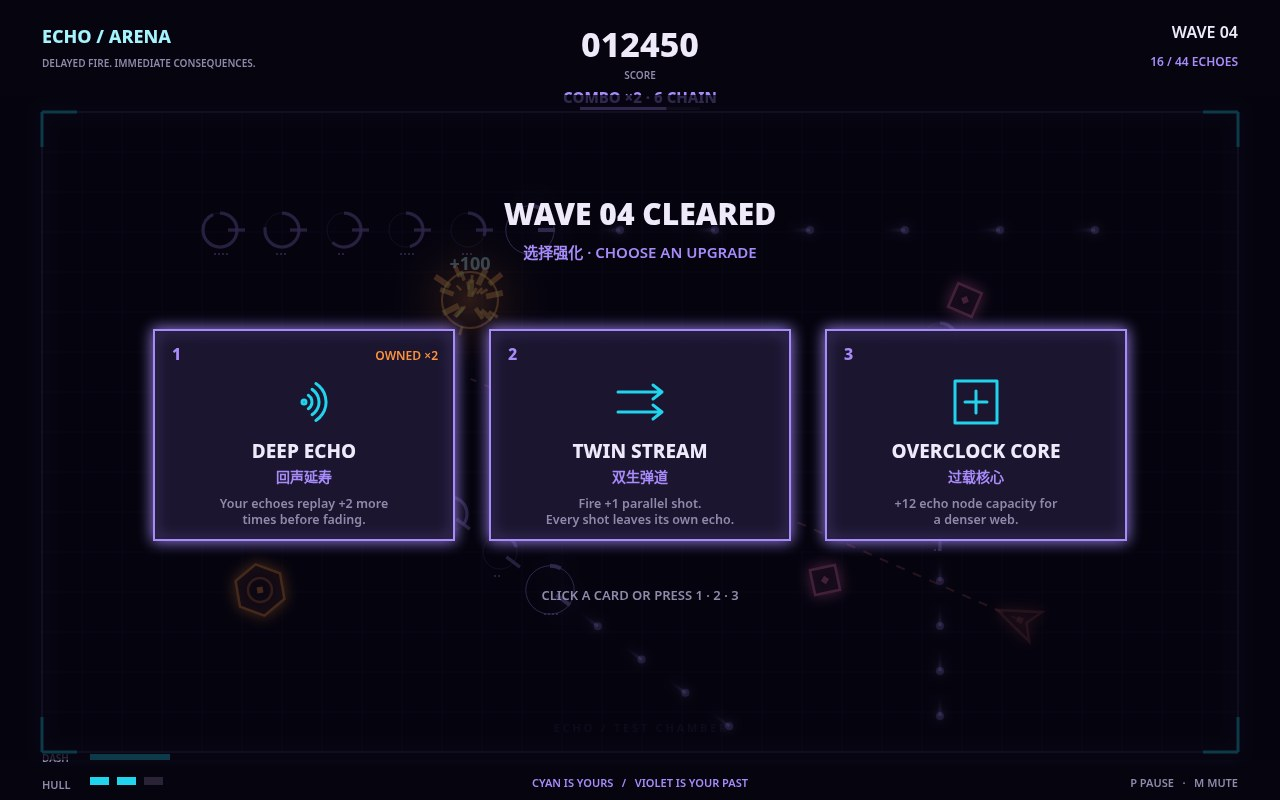
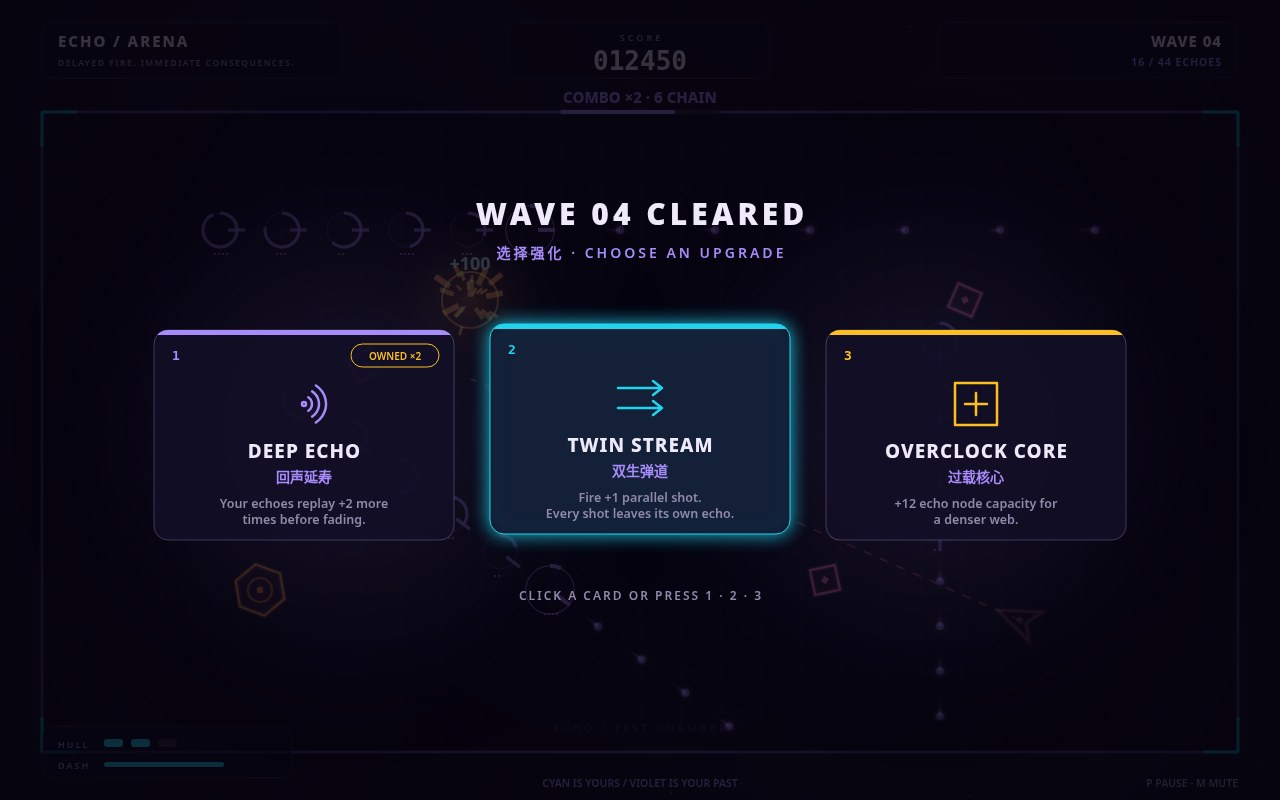
ECHO ARENA visual upgrade: layered deep-space backdrop with nebula and starfield, glassmorphism HUD panels, magazine-grid title with echo ripples, glass upgrade cards with stagger and hover, WARDEN letterbox intro, segmented boss bar, stats-grid game over, glow-sprite rendering (no gameplay changes)

diff --git a/game/src/render.js b/game/src/render.js
@@ -1,13 +1,35 @@
 import { WIDTH, HEIGHT, ARENA, PALETTE as C, COMBO, BULLET, DASH, PLAYER_DASH } from './config.js';
 import { cardRect, CARD } from './upgrades.js';
 export class Renderer {
- constructor(canvas) {this.ctx=canvas.getContext('2d');this.canvas=canvas;}
- text(value,x,y,size=18,color=C.text,align='left',weight=600) {const c=this.ctx;c.font=`${weight} ${size}px system-ui, sans-serif`;c.textAlign=align;c.fillStyle=color;c.fillText(value,x,y);}
+ constructor(canvas) {
+  this.ctx=canvas.getContext('2d');this.canvas=canvas;this.rt=0;this.stateT=0;this.bossT=2;this.glows=new Map();
+  const surface=()=>{const a=document.createElement('canvas');a.width=WIDTH;a.height=HEIGHT;return a;};
+  this.nebula=surface();const n=this.nebula.getContext('2d');n.fillStyle='#06040f';n.fillRect(0,0,WIDTH,HEIGHT);
+  for(const [x,y,r,rgb,a] of [[300,180,520,'167,139,250',.10],[1020,620,560,'34,211,238',.07],[980,140,380,'244,113,181',.05],[180,660,420,'167,139,250',.06]]){const g=n.createRadialGradient(x,y,0,x,y,r);g.addColorStop(0,`rgba(${rgb},${a})`);g.addColorStop(1,`rgba(${rgb},0)`);n.fillStyle=g;n.fillRect(0,0,WIDTH,HEIGHT);}
+  this.vignette=surface();const v=this.vignette.getContext('2d'),g=v.createRadialGradient(640,400,340,640,400,920);g.addColorStop(0,'rgba(3,2,10,0)');g.addColorStop(1,'rgba(3,2,10,.62)');v.fillStyle=g;v.fillRect(0,0,WIDTH,HEIGHT);
+  let seed=7319;const random=()=>((seed=(Math.imul(seed,1664525)+1013904223)>>>0)/4294967296);
+  this.stars=[100,50].map((count,layer)=>Array.from({length:count},()=>({x:random()*WIDTH,y:random()*HEIGHT,r:layer?1.7:1,phase:random()*Math.PI*2})));
+  for(const color of [C.cyan,C.echo,C.red,C.text,C.white,C.gold])this.glow(color);
+ }
+ glow(color){if(!this.glows.has(color)){const a=document.createElement('canvas');a.width=a.height=128;const c=a.getContext('2d'),g=c.createRadialGradient(64,64,0,64,64,64);g.addColorStop(0,color);g.addColorStop(.18,color);g.addColorStop(1,'transparent');c.fillStyle=g;c.fillRect(0,0,128,128);this.glows.set(color,a);}return this.glows.get(color);}
+ glowAt(x,y,size,color,alpha=1){const c=this.ctx;c.save();c.globalAlpha*=alpha;c.drawImage(this.glow(color),x-size/2,y-size/2,size,size);c.restore();}
+ round(x,y,w,h,r=10){const c=this.ctx;r=Math.min(r,w/2,h/2);c.beginPath();c.moveTo(x+r,y);c.arcTo(x+w,y,x+w,y+h,r);c.arcTo(x+w,y+h,x,y+h,r);c.arcTo(x,y+h,x,y,r);c.arcTo(x,y,x+w,y,r);c.closePath();}
+ panel(x,y,w,h){const c=this.ctx;this.round(x,y,w,h);c.fillStyle='rgba(10,8,24,.55)';c.fill();c.lineWidth=1;c.strokeStyle='rgba(190,180,255,.16)';c.stroke();this.line(x+10,y+1,x+w-10,y+1,'rgba(255,255,255,.07)');}
+ label(value,x,y,size=10,color=C.muted,align='left',spacing=2,weight=600){this.text(value,x,y,size,color,align,weight,spacing);}
+ num(value,x,y,size=26,color=C.text,align='center'){this.text(value,x,y,size,color,align,800,0,true);}
+ bar(x,y,w,h,f,color){const c=this.ctx;this.round(x,y,w,h,h/2);c.fillStyle='#292335';c.fill();if(f>0){this.round(x,y,w*Math.min(1,Math.max(0,f)),h,h/2);c.fillStyle=color;c.fill();}}
+ inside(m,r){return m.x>=r.x&&m.x<=r.x+r.w&&m.y>=r.y&&m.y<=r.y+r.h;}
+
+ text(value,x,y,size=18,color=C.text,align='left',weight=600,spacing=0,mono=false) {const c=this.ctx;c.font=`${weight} ${size}px ${mono?'ui-monospace,"SF Mono","Cascadia Mono",Menlo,Consolas,monospace':'"Avenir Next","Segoe UI",system-ui,sans-serif'}`;c.textAlign=align;c.fillStyle=color;if('letterSpacing' in c)c.letterSpacing=`${spacing}px`;c.fillText(value,x+(align==='center'?spacing/2:0),y);if('letterSpacing' in c)c.letterSpacing='0px';}
  line(x,y,x2,y2,color,width=1) {const c=this.ctx;c.strokeStyle=color;c.lineWidth=width;c.beginPath();c.moveTo(x,y);c.lineTo(x2,y2);c.stroke();}
  draw(game) {
-  const c=this.ctx,scale=this.canvas.width/WIDTH;c.setTransform(scale,0,0,scale,0,0);c.clearRect(0,0,WIDTH,HEIGHT);c.fillStyle=C.floor;c.fillRect(0,0,WIDTH,HEIGHT);
+  const now=performance.now();const dt=this.lastNow===undefined?0:Math.min(.05,Math.max(0,(now-this.lastNow)/1000));this.lastNow=now;this.rt+=dt;this.stateT+=dt;this.bossT+=dt;
+  if(this.lastState===undefined){this.lastState=game.state;this.stateT=2;this.changed=false;}else if(this.lastState!==game.state){this.lastState=game.state;this.stateT=0;this.changed=true;}
+  const boss=game.enemies.find(e=>e.kind==='warden'&&!e.dead);if(boss&&game.state==='playing'&&boss!==this.bossRef){this.bossRef=boss;this.bossT=0;}
+  const c=this.ctx,scale=this.canvas.width/WIDTH;c.setTransform(scale,0,0,scale,0,0);c.clearRect(0,0,WIDTH,HEIGHT);c.drawImage(this.nebula,0,0);
+  c.save();this.stars.forEach((layer,i)=>{for(const star of layer){c.globalAlpha=(i?.35:.18)*( .7+.3*Math.sin(this.rt*.7+star.phase));c.fillStyle=i?C.text:C.echo;c.fillRect((star.x+this.rt*(i?5:2))%WIDTH,star.y,star.r,star.r);}});c.restore();
   c.save();c.translate(Math.sin(game.time*99)*game.shake,Math.cos(game.time*113)*game.shake);
-  this.floor(game.time);
+  this.floor(this.rt);
   c.save();c.beginPath();c.rect(ARENA.left,ARENA.top,ARENA.right-ARENA.left,ARENA.bottom-ARENA.top);c.clip();
   game.echoes.draw(c,game.time);
   for(const spawn of game.director.pending)if(spawn.timer<0.85){const pulse=1-spawn.timer/0.85;c.strokeStyle=C.red;c.globalAlpha=0.5+Math.sin(game.time*25)*0.25;c.lineWidth=2;c.beginPath();c.arc(spawn.x,spawn.y,12+24*pulse,0,Math.PI*2);c.stroke();this.line(spawn.x-9,spawn.y,spawn.x+9,spawn.y,C.red);this.line(spawn.x,spawn.y-9,spawn.x,spawn.y+9,C.red);c.globalAlpha=1;}
@@ -16,28 +38,30 @@ export class Renderer {
   for(const g of game.afterimages){c.save();c.translate(g.x,g.y);c.rotate(g.angle);c.globalAlpha=0.35*(g.life/PLAYER_DASH.ghostLife);c.strokeStyle=C.cyan;c.lineWidth=2;c.beginPath();c.moveTo(21,0);c.lineTo(-14,-13);c.lineTo(-8,0);c.lineTo(-14,13);c.closePath();c.stroke();c.restore();}
   if(game.state!=='title'&&game.player.hp>0)this.player(game);
   game.particles.draw(c);c.restore();c.restore();
+  c.drawImage(this.vignette,0,0);
   this.hud(game);
-  const boss=game.enemies.find(e=>e.kind==='warden'&&!e.dead);
-  if(boss&&(game.state==='playing'||game.state==='upgrade')){this.text('WARDEN',WIDTH/2-220,ARENA.top-2,10,C.echo,'left',700);c.fillStyle='#292335';c.fillRect(WIDTH/2-220,ARENA.top+8,440,9);c.fillStyle='#d8b4fe';c.fillRect(WIDTH/2-220,ARENA.top+8,440*Math.max(0,boss.hp/boss.maxHp),9);c.strokeStyle='#65518f';c.lineWidth=1;c.strokeRect(WIDTH/2-220,ARENA.top+8,440,9);}
-  if(game.banner>0&&game.state==='playing'){c.save();c.globalAlpha=Math.min(1,game.banner);this.text(`WAVE ${String(game.director.wave).padStart(2,'0')}`,WIDTH/2,195,42,C.text,'center',850);this.text('THE PAST IS CATCHING UP',WIDTH/2,222,12,C.echo,'center');c.restore();}
+  if(boss&&(game.state==='playing'||game.state==='upgrade')){this.label('WARDEN // 守望者',430,140,10,C.magenta,'left',2);const g=c.createLinearGradient(430,0,850,0);g.addColorStop(0,C.magenta);g.addColorStop(1,C.red);this.bar(430,146,420,10,boss.hp/boss.maxHp,g);c.strokeStyle='rgba(190,180,255,.16)';c.strokeRect(430,146,420,10);for(let i=1;i<14;i++)this.line(430+i*30,146,430+i*30,156,'rgba(8,6,20,.85)',2);}
+  if(game.banner>0&&game.state==='playing'){c.save();const a=Math.min(1,game.banner);c.globalAlpha=a;this.label(`WAVE ${String(game.director.wave).padStart(2,'0')}`,640,195,40,C.text,'center',6,850);this.line(360-60*a,181,440,181,C.echo);this.line(840,181,920+60*a,181,C.echo);this.label('THE PAST IS CATCHING UP',640,222,11,C.echo,'center',3);c.restore();}
+  if(game.state==='playing'&&this.bossT<1.2)this.bossIntro();
   if(game.redFlash>0){const g=c.createRadialGradient(WIDTH/2,HEIGHT/2,220,WIDTH/2,HEIGHT/2,700);g.addColorStop(0,'transparent');g.addColorStop(1,`rgba(248,70,80,${game.redFlash})`);c.fillStyle=g;c.fillRect(0,0,WIDTH,HEIGHT);}
   if(game.state==='upgrade')this.upgrade(game);
   if(game.state==='title')this.title(game);
   if(game.state==='paused')this.paused();
   if(game.state==='gameover')this.gameover(game);
+  if(this.changed&&this.stateT<.28){c.fillStyle=`rgba(0,0,0,${.85*(1-this.stateT/.28)})`;c.fillRect(0,0,WIDTH,HEIGHT);}
  }
  floor(time) {
   const c=this.ctx,a=ARENA;c.save();
-  c.fillStyle=C.floor;c.fillRect(a.left,a.top,a.right-a.left,a.bottom-a.top);
-  c.strokeStyle=C.grid;c.lineWidth=1;c.beginPath();for(let x=a.left;x<a.right;x+=40){c.moveTo(x,a.top);c.lineTo(x,a.bottom);}for(let y=a.top;y<a.bottom;y+=40){c.moveTo(a.left,y);c.lineTo(a.right,y);}c.stroke();
-  c.shadowBlur=16;c.shadowColor=C.echo;c.strokeStyle='#65518f';c.strokeRect(a.left,a.top,a.right-a.left,a.bottom-a.top);c.shadowBlur=0;
+  c.fillStyle='rgba(8,6,20,.88)';c.fillRect(a.left,a.top,a.right-a.left,a.bottom-a.top);
+  c.strokeStyle='rgba(143,137,170,.075)';c.lineWidth=1;c.beginPath();for(let x=a.left;x<a.right;x+=40){c.moveTo(x,a.top);c.lineTo(x,a.bottom);}for(let y=a.top;y<a.bottom;y+=40){c.moveTo(a.left,y);c.lineTo(a.right,y);}c.stroke();
+  c.strokeStyle=C.echo;c.lineWidth=5;c.globalAlpha=.16;c.strokeRect(a.left,a.top,a.right-a.left,a.bottom-a.top);c.lineWidth=1.5;c.globalAlpha=.5+.25*Math.sin(time*1.4);c.strokeRect(a.left,a.top,a.right-a.left,a.bottom-a.top);c.globalAlpha=1;
   const corners=[[a.left,a.top,1,1],[a.right,a.top,-1,1],[a.left,a.bottom,1,-1],[a.right,a.bottom,-1,-1]];
   for(const [x,y,sx,sy]of corners){this.line(x,y,x+sx*35,y,C.cyan,3);this.line(x,y,x,y+sy*35,C.cyan,3);}
   c.globalAlpha=0.2;this.text('E C H O   /   T E S T   C H A M B E R',WIDTH/2,a.bottom-20,11,C.echo,'center');c.restore();
  }
  bullets(bullets) {
   const c=this.ctx;c.save();c.globalCompositeOperation='lighter';
-  for(const b of bullets){const live=b.kind==='live',burst=b.kind==='burst',hostile=b.kind==='hostile',dx=Math.cos(b.angle),dy=Math.sin(b.angle);c.globalAlpha=live||hostile?1:burst?0.95:0.48;c.shadowBlur=live?13:8;c.shadowColor=hostile?C.red:live?C.cyan:C.echo;
+  for(const b of bullets){const live=b.kind==='live',burst=b.kind==='burst',hostile=b.kind==='hostile',dx=Math.cos(b.angle),dy=Math.sin(b.angle);c.globalAlpha=live||hostile?1:burst?0.95:0.48;this.glowAt(b.x,b.y,live?26:22,hostile?C.red:burst?C.text:live?C.cyan:C.echo,.65);
    const gradient=c.createLinearGradient(b.x,b.y,b.x-dx*BULLET.trail,b.y-dy*BULLET.trail);gradient.addColorStop(0,hostile?C.red:live?C.cyan:C.echo);gradient.addColorStop(1,'transparent');this.line(b.x,b.y,b.x-dx*BULLET.trail,b.y-dy*BULLET.trail,gradient,live?4:3);
    c.fillStyle=hostile?'#fecaca':burst?'#ffffff':live?C.white:C.echo;c.beginPath();c.arc(b.x,b.y,live?3.5:4,0,Math.PI*2);c.fill();
   }c.restore();
@@ -45,69 +69,69 @@ export class Renderer {
  enemy(e,time) {
   const c=this.ctx;c.save();c.translate(e.x,e.y);
   if(e.kind==='warden'){
-   c.rotate(time*0.3);c.strokeStyle=e.flash>0?C.white:e.color;c.lineWidth=3.5;c.fillStyle='#1d1030';c.shadowBlur=18;c.shadowColor=e.color;
-   for(const r of [e.radius,e.radius*0.62]){c.beginPath();for(let i=0;i<6;i++){const a=i*Math.PI/3;if(i===0)c.moveTo(Math.cos(a)*r,Math.sin(a)*r);else c.lineTo(Math.cos(a)*r,Math.sin(a)*r);}c.closePath();c.fill();c.stroke();c.rotate(-time*0.5);}
+   this.glowAt(0,0,230,C.echo,.30);c.rotate(time*0.3);c.strokeStyle=e.flash>0?C.white:e.color;c.lineWidth=3.5;c.fillStyle='#1d1030';
+   for(const r of [e.radius,e.radius*0.62]){c.beginPath();for(let i=0;i<6;i++){const a=i*Math.PI/3;if(i===0)c.moveTo(Math.cos(a)*r,Math.sin(a)*r);else c.lineTo(Math.cos(a)*r,Math.sin(a)*r);}c.closePath();c.fill();c.save();c.globalAlpha*=.16;c.lineWidth=6;c.stroke();c.restore();c.stroke();c.rotate(-time*0.5);}
    c.fillStyle=e.color;c.beginPath();c.arc(0,0,9,0,Math.PI*2);c.fill();c.restore();return;
   }
   if(e.kind==='dasher'&&e.phase==='charge'){c.save();c.rotate(e.angle);c.globalAlpha=0.2+0.45*(1-e.timer/DASH.charge);c.setLineDash([9,9]);this.line(0,0,600,0,C.red,2);c.restore();}
   if(e.kind==='dasher'&&e.phase==='dash'){c.save();c.rotate(e.angle);const trail=c.createLinearGradient(-12,0,-125,0);trail.addColorStop(0,C.red);trail.addColorStop(1,'transparent');c.globalAlpha=0.55;this.line(-12,0,-125,0,trail,13);c.restore();}
-  c.rotate(e.kind==='splitter'?time*0.25:e.angle);c.strokeStyle=e.flash>0?C.white:e.color;c.fillStyle=e.flash>0?'#ffffff':'#241023';c.lineWidth=2.5;c.shadowBlur=14;c.shadowColor=e.color;
+  c.rotate(e.kind==='splitter'?time*0.25:e.angle);c.strokeStyle=e.flash>0?C.white:e.color;c.fillStyle=e.flash>0?'#ffffff':'#241023';c.lineWidth=2.5;
   if(e.kind==='dasher'&&e.phase==='charge')c.globalAlpha=0.65+0.35*Math.sin(time*22);
   c.beginPath();
   if(e.kind==='splitter'){for(let i=0;i<6;i++){const a=i*Math.PI/3;c.lineTo(Math.cos(a)*e.radius,Math.sin(a)*e.radius);}}
   else if(e.kind==='dasher'){c.moveTo(25,0);c.lineTo(-17,-16);c.lineTo(-7,0);c.lineTo(-17,16);}
   else {c.moveTo(e.radius,0);c.lineTo(0,e.radius);c.lineTo(-e.radius,0);c.lineTo(0,-e.radius);}
-  c.closePath();c.fill();c.stroke();c.shadowBlur=0;c.fillStyle=e.color;c.fillRect(-3,-3,6,6);
+  c.closePath();c.fill();c.save();c.globalAlpha*=.16;c.lineWidth=6;c.strokeStyle=e.color;c.stroke();c.restore();c.stroke();c.fillStyle=e.color;c.fillRect(-3,-3,6,6);
   if(e.kind==='splitter'){c.globalAlpha=0.65;c.beginPath();c.arc(0,0,12,0,Math.PI*2);c.stroke();}c.restore();
  }
  player(game) {
   const p=game.player,c=this.ctx;if(p.invincible>0&&Math.floor(game.time*16)%2===0)return;
-  c.save();c.translate(p.x,p.y);c.rotate(p.angle);
+  this.glowAt(p.x,p.y,90,C.cyan,.35);c.save();c.translate(p.x,p.y);c.rotate(p.angle);
   const engine=18+Math.sin(game.time*40)*5+Math.hypot(p.vx,p.vy)*0.035;
   const flame=c.createLinearGradient(-12,0,-12-engine,0);flame.addColorStop(0,C.cyan);flame.addColorStop(1,'transparent');c.fillStyle=flame;c.beginPath();c.moveTo(-10,-6);c.lineTo(-12-engine,0);c.lineTo(-10,6);c.fill();
-  c.shadowBlur=18;c.shadowColor=C.cyan;c.strokeStyle=C.white;c.fillStyle='#126077';c.lineWidth=2;c.beginPath();c.moveTo(21,0);c.lineTo(-14,-13);c.lineTo(-8,0);c.lineTo(-14,13);c.closePath();c.fill();c.stroke();c.shadowBlur=0;
+  c.shadowBlur=14;c.shadowColor=C.cyan;c.strokeStyle=C.white;c.fillStyle='#126077';c.lineWidth=2;c.beginPath();c.moveTo(21,0);c.lineTo(-14,-13);c.lineTo(-8,0);c.lineTo(-14,13);c.closePath();c.fill();c.stroke();c.shadowBlur=0;
   this.line(31,0,47,0,C.cyan,1);c.restore();
   if(p.invincible>0){c.save();c.globalAlpha=0.35;c.strokeStyle=C.cyan;c.beginPath();c.arc(p.x,p.y,27,0,Math.PI*2);c.stroke();c.restore();}
   const m=game.input.mouse;c.save();c.globalAlpha=0.7;c.strokeStyle=C.white;c.beginPath();c.arc(m.x,m.y,7,0,Math.PI*2);c.stroke();this.line(m.x-12,m.y,m.x-9,m.y,C.cyan);this.line(m.x+9,m.y,m.x+12,m.y,C.cyan);c.restore();
  }
  hud(game) {
-  this.text('ECHO / ARENA',42,43,18,C.white,'left',850);this.text('DELAYED FIRE. IMMEDIATE CONSEQUENCES.',42,67,10,C.muted);
-  this.text(String(game.score).padStart(6,'0'),WIDTH/2,57,34,C.text,'center',800);this.text('SCORE',WIDTH/2,79,10,C.muted,'center');
-  this.text(`WAVE ${String(game.director.wave).padStart(2,'0')}`,1238,38,16,C.text,'right');
-  this.text(`${game.echoes.nodes.length} / ${game.echoes.cap} ECHOES`,1238,66,12,C.echo,'right');
-  if(game.comboChain>=2&&(game.state==='playing'||game.state==='upgrade')){const c=this.ctx,mult=Math.min(1+Math.floor(game.comboChain/COMBO.perTier),COMBO.maxTier);this.text(`COMBO ×${mult} · ${game.comboChain} CHAIN`,WIDTH/2,103,15,mult>=4?C.orange:C.echo,'center',800);c.fillStyle='#292335';c.fillRect(WIDTH/2-60,107,120,3);c.fillStyle=C.echo;c.fillRect(WIDTH/2-60,107,120*Math.max(0,game.comboTimer/COMBO.window),3);}
-  if(game.state!=='title'){const c=this.ctx;this.text('DASH',42,762,10,C.muted);c.fillStyle='#292335';c.fillRect(90,754,80,6);c.fillStyle=C.cyan;c.fillRect(90,754,80*(1-game.dashCd/PLAYER_DASH.cooldown),6);this.text('HULL',42,789,11,C.muted);for(let i=0;i<3;i++){const c=this.ctx;c.fillStyle=i<game.player.hp?C.cyan:'#292335';c.fillRect(90+i*27,777,19,8);}this.text('CYAN IS YOURS   /   VIOLET IS YOUR PAST',WIDTH/2,787,11,C.echo,'center');}
-  this.text(`P PAUSE   ·   M ${game.sound.muted?'UNMUTE':'MUTE'}`,1238,787,11,C.muted,'right');
+  this.panel(42,22,300,56);this.label('ECHO / ARENA',58,47,15,C.text,'left',2,800);this.label('DELAYED FIRE. IMMEDIATE CONSEQUENCES.',58,66,8.5,C.muted,'left',1.5);
+  this.panel(510,22,260,56);this.label('SCORE',640,41,9,C.muted,'center',3);this.num(String(game.score).padStart(6,'0'),640,70);
+  this.panel(938,22,300,56);this.label(`WAVE ${String(game.director.wave).padStart(2,'0')}`,1222,47,15,C.text,'right',1,800);this.label(`${game.echoes.nodes.length} / ${game.echoes.cap} ECHOES`,1222,66,10.5,C.echo,'right',1);
+  if(game.comboChain>=2&&['playing','upgrade'].includes(game.state)){const m=Math.min(1+Math.floor(game.comboChain/COMBO.perTier),COMBO.maxTier),color=m>=4?C.gold:C.echo;this.text(`COMBO ×${m} · ${game.comboChain} CHAIN`,640,103,15,color,'center',800);this.bar(560,110,160,4,game.comboTimer/COMBO.window,color);}
+  if(game.state!=='title'){this.panel(42,726,250,52);this.label('HULL',58,748,9);for(let i=0;i<3;i++){this.round(104+i*27,739,19,8,3);this.ctx.fillStyle=i<game.player.hp?C.cyan:'#292335';this.ctx.fill();}this.label('DASH',58,769,9);this.bar(104,762,120,5,1-game.dashCd/PLAYER_DASH.cooldown,C.cyan);this.text('CYAN IS YOURS / VIOLET IS YOUR PAST',640,787,10.5,C.echo,'center');}
+  this.text(`P PAUSE · M ${game.sound.muted?'UNMUTE':'MUTE'}`,1238,787,10.5,C.muted,'right');
  }
- veil(alpha=0.8) {const c=this.ctx;c.fillStyle=`rgba(6,4,15,${alpha})`;c.fillRect(0,95,WIDTH,665);}
- title(game) {
-  const c=this.ctx;this.veil(0.68);
-  this.text('S U R V I V E   Y O U R   O W N   E C H O',640,204,13,C.cyan,'center',700);
-  c.save();c.shadowBlur=35;c.shadowColor='#55488a';this.text('ECHO ARENA',640,310,98,C.text,'center',900);c.restore();
-  this.text('回 声 战 场',640,360,32,C.echo,'center',600);
-  this.line(532,389,748,389,'#544276');
-  this.text('你最大的敌人，是三秒前的你自己。',640,433,23,C.text,'center');
-  this.text('Your deadliest enemy is you, three seconds ago.',640,464,19,C.muted,'center',500);
-  this.text('Shoot your own echo nodes to detonate them — the blast never harms you.',640,488,14,C.echo,'center');
-  this.text('Every shot you fire leaves an echo that replays it every 3 s — and echoes can kill you too.',640,520,16,C.text,'center',500);
-  this.text('WASD / ARROWS — move · MOUSE — aim · HOLD CLICK — fire · SHIFT / SPACE — dash · P pause · M mute',640,555,13,C.echo,'center');
-  c.save();c.shadowBlur=20;c.shadowColor=C.cyan;c.strokeStyle=C.cyan;c.fillStyle='#10242e';c.fillRect(500,592,280,58);c.strokeRect(500,592,280,58);this.text('CLICK TO START',640,629,21,C.white,'center',800);c.restore();
-  this.text(game.best?`PERSONAL BEST  ${game.best.toLocaleString()}`:'FIRE. MOVE. REMEMBER.',640,694,13,C.muted,'center');
+ veil(alpha=.8){const c=this.ctx;c.fillStyle=`rgba(6,4,15,${alpha})`;c.fillRect(0,0,WIDTH,HEIGHT);}
+ bossIntro(){const c=this.ctx,t=this.bossT;let a=t<.3?t/.3:t<.85?1:(1.2-t)/.35;a=a*a*(3-2*a);c.save();c.fillStyle='rgba(3,2,10,.94)';c.fillRect(0,0,WIDTH,58*a);c.fillRect(0,HEIGHT-58*a,WIDTH,58*a);c.globalAlpha=a;this.line(0,58*a,WIDTH,58*a,C.magenta);this.line(0,HEIGHT-58*a,WIDTH,HEIGHT-58*a,C.magenta);this.label('WARDEN AWAKENS',640,396,30,C.text,'center',8,900);this.label('守 望 者 苏 醒',640,424,13,C.magenta,'center',6);c.restore();}
+ title(game){
+  const c=this.ctx;this.veil(.55);c.save();for(let i=0;i<3;i++){const r=(this.rt*90+i*150)%450;c.globalAlpha=.16*(1-r/450);c.strokeStyle=i===2?C.cyan:C.echo;c.lineWidth=1.5;c.beginPath();c.arc(640,430,r,0,Math.PI*2);c.stroke();}c.restore();
+  this.label('S U R V I V E   Y O U R   O W N   E C H O',640,196,12,C.cyan,'center',6);
+  c.save();c.shadowColor=C.echo;c.shadowBlur=34;this.label('ECHO ARENA',640,300,96,'rgba(167,139,250,.55)','center',10,900);c.restore();this.label('ECHO ARENA',640,300,96,C.text,'center',10,900);
+  this.label('回 声 战 场',640,352,30,C.echo,'center',12);this.line(532,384,748,384,'#544276');c.save();c.translate(640,384);c.rotate(Math.PI/4);c.fillStyle=C.echo;c.fillRect(-3,-3,6,6);c.restore();
+  this.text('你最大的敌人，是三秒前的你自己。',640,428,22,C.text,'center');this.text('Your deadliest enemy is you, three seconds ago.',640,456,15,C.muted,'center');
+  this.label('玩法 · HOW IT WORKS',150,505,11,C.cyan,'left',3);this.label('操作 · CONTROLS',690,505,11,C.cyan,'left',3);
+  // Wrap these two complete instructions within their magazine column.
+  const instructions=['01 — Every shot leaves an echo. It replays every 3 s — and it can kill you.','02 — Shoot your own echo nodes to detonate them. The blast never harms you.'];
+  instructions.forEach((line,i)=>{const words=line.split(' ');let row='',y=529+i*39;for(const word of words){c.font='500 13.5px "Avenir Next","Segoe UI",system-ui,sans-serif';if(c.measureText(row+' '+word).width>440){this.text(row,150,y,13.5,C.text,'left',500);row=word;y+=17;}else row+=(row?' ':'')+word;}this.text(row,150,y,13.5,C.text,'left',500);});
+  ['WASD / ARROWS — MOVE','MOUSE — AIM · HOLD CLICK — FIRE','SHIFT / SPACE — DASH · P — PAUSE · M — MUTE'].forEach((v,i)=>this.text(v,690,531+i*26,13.5,C.text,'left',500));
+  const hover=this.inside(game.input.mouse,{x:490,y:606,w:300,h:56});if(hover)this.glowAt(640,634,390,C.cyan,.18);this.round(490,606,300,56,28);c.fillStyle=`rgba(34,211,238,${hover?.16:.08})`;c.fill();c.strokeStyle=hover?C.white:C.cyan;c.lineWidth=1.5;c.stroke();this.label('CLICK TO START',640,641,19,C.text,'center',4,800);
+  this.label(game.best>0?`PERSONAL BEST  ${game.best.toLocaleString()}`:'FIRE. MOVE. REMEMBER.',640,700,12,C.muted,'center',2);
  }
- upgrade(game) {
-  const c=this.ctx;this.veil(0.74);
-  this.text(`WAVE ${String(game.director.wave).padStart(2,'0')} CLEARED`,WIDTH/2,225,30,C.text,'center',900);this.text('选择强化 · CHOOSE AN UPGRADE',WIDTH/2,258,15,C.echo,'center');
-  for(const [i,choice]of game.choices.entries()){const r=cardRect(i),cx=r.x+CARD.w/2,n=game.upgrades[choice.id];
-   c.save();c.fillStyle='rgba(16,12,32,0.92)';c.strokeStyle=C.echo;c.lineWidth=2;c.shadowBlur=14;c.shadowColor=C.echo;c.fillRect(r.x,r.y,r.w,r.h);c.strokeRect(r.x,r.y,r.w,r.h);c.restore();
-   this.text(String(i+1),r.x+18,r.y+30,16,C.echo,'left',800);if(n>0)this.text(`OWNED ×${n}`,r.x+r.w-16,r.y+30,12,C.orange,'right');
-   this.upgradeIcon(choice.icon,cx,r.y+72);this.text(choice.name,cx,r.y+128,19,C.text,'center',800);this.text(choice.cn,cx,r.y+152,14,C.echo,'center');
-   const lines=[];let line='';for(const word of choice.desc.split(' ')){if(line&&(line+' '+word).length>26&&lines.length<1){lines.push(line);line=word;}else line+=(line?' ':'')+word;}if(line)lines.push(line);
-   for(let j=0;j<lines.length;j++)this.text(lines[j],cx,r.y+178+j*16,12.5,C.muted,'center');
-  }
-  this.text('CLICK A CARD OR PRESS 1 · 2 · 3',WIDTH/2,600,13,C.muted,'center');
+ upgrade(game){
+  const c=this.ctx;this.veil(.8);this.glowAt(350,430,700,C.echo,.10);this.glowAt(930,430,700,C.echo,.10);
+  this.label(`WAVE ${String(game.director.wave).padStart(2,'0')} CLEARED`,640,225,30,C.text,'center',4,900);this.label('选择强化 · CHOOSE AN UPGRADE',640,258,14,C.echo,'center',3);
+  const colors={twin:C.cyan,deep:C.echo,cryo:'#a5f3fc',overclock:C.gold,pierce:C.text,resonant:C.echo,repair:C.gold};
+  for(const [i,choice]of game.choices.entries()){const r=cardRect(i),cx=r.x+CARD.w/2,n=game.upgrades[choice.id],color=colors[choice.id]||C.echo,hover=this.inside(game.input.mouse,r),t=Math.max(0,Math.min(1,(this.stateT-i*.09)/.35)),p=1-(1-t)**3;
+   c.save();c.translate(0,(1-p)*18-(hover?6:0));c.globalAlpha=p;this.round(r.x,r.y,r.w,r.h,14);c.fillStyle='rgba(18,14,38,.90)';c.strokeStyle=hover?color:'rgba(190,180,255,.28)';c.lineWidth=1;if(hover){c.shadowBlur=18;c.shadowColor=color;}c.fill();c.stroke();c.shadowBlur=0;
+   c.save();this.round(r.x,r.y,r.w,r.h,14);c.clip();c.fillStyle=color;c.fillRect(r.x,r.y,r.w,5);c.restore();
+   this.num(String(i+1),r.x+22,r.y+30,13,color);if(n>0){this.round(r.x+r.w-103,r.y+14,88,23,12);c.strokeStyle=C.gold;c.stroke();this.label(`OWNED ×${n}`,r.x+r.w-59,r.y+30,10,C.gold,'center',0);}
+   this.upgradeIcon(choice.icon,cx,r.y+74,color);this.label(choice.name,cx,r.y+128,19,C.text,'center',1,800);this.text(choice.cn,cx,r.y+152,14,C.echo,'center');
+   const lines=[];let line='';for(const word of choice.desc.split(' ')){if(line&&(line+' '+word).length>26&&lines.length<1){lines.push(line);line=word;}else line+=(line?' ':'')+word;}if(line)lines.push(line);for(let j=0;j<lines.length;j++)this.text(lines[j],cx,r.y+178+j*16,12.5,C.muted,'center');c.restore();
+  }this.label('CLICK A CARD OR PRESS 1 · 2 · 3',640,600,12,C.muted,'center',2);
  }
- upgradeIcon(kind,cx,cy) {
-  const c=this.ctx;c.save();c.translate(cx,cy);c.strokeStyle=C.cyan;c.lineWidth=3;c.lineCap='round';c.lineJoin='round';c.beginPath();
+ upgradeIcon(kind,cx,cy,color=C.cyan) {
+  const c=this.ctx;c.save();c.translate(cx,cy);c.strokeStyle=color;c.lineWidth=2.5;c.lineCap='round';c.lineJoin='round';c.beginPath();
   if(kind==='twin'){for(const y of [-10,10]){c.moveTo(-22,y);c.lineTo(22,y);c.moveTo(13,y-7);c.lineTo(22,y);c.lineTo(13,y+7);}}
   else if(kind==='deep'){for(const r of [8,15,22]){c.moveTo(Math.cos(-1)*r,Math.sin(-1)*r);c.arc(0,0,r,-1,1);}c.moveTo(2,0);c.arc(0,0,2,0,Math.PI*2);}
   else if(kind==='cryo'){for(let i=0;i<6;i++){const a=i*Math.PI/3;c.moveTo(0,0);c.lineTo(Math.cos(a)*22,Math.sin(a)*22);}}
@@ -117,13 +141,11 @@ export class Renderer {
   else if(kind==='repair'){c.arc(0,0,22,0,Math.PI*2);c.moveTo(-5,-13);c.lineTo(5,-13);c.lineTo(5,-5);c.lineTo(13,-5);c.lineTo(13,5);c.lineTo(5,5);c.lineTo(5,13);c.lineTo(-5,13);c.lineTo(-5,5);c.lineTo(-13,5);c.lineTo(-13,-5);c.lineTo(-5,-5);c.closePath();}
   c.stroke();c.restore();
  }
- paused() {this.veil();this.text('PAUSED',640,390,70,C.text,'center',900);this.text('Your past can wait.',640,437,22,C.echo,'center');this.text('PRESS P TO RESUME',640,500,16,C.white,'center');}
- gameover(game) {
-  this.veil();this.text('THE PAST CAUGHT UP',640,241,14,C.red,'center');this.text('GAME OVER',640,330,80,C.text,'center',900);
-  this.text('FINAL SCORE',640,391,13,C.muted,'center');this.text(game.score.toLocaleString(),640,454,56,C.white,'center',850);
-  this.text(`WAVE REACHED  ${game.director.wave}     /     BEST  ${game.best.toLocaleString()}`,640,504,18,C.echo,'center');
-  this.text(`BEST COMBO  ${game.bestCombo} CHAIN`,640,536,15,C.orange,'center',700);
-  if(game.newBest)this.text('NEW BEST',640,568,17,C.orange,'center',800);
-  this.text('CLICK OR PRESS R TO RESTART',640,622,23,C.white,'center',800);
+ paused(){this.veil();this.label('PAUSED',640,390,70,C.text,'center',8,900);this.text('Your past can wait.',640,437,22,C.echo,'center');this.label('PRESS P TO RESUME',640,500,16,C.text,'center',2);}
+ gameover(game){
+  const c=this.ctx;this.veil(.8);this.label('THE PAST CAUGHT UP',640,225,13,C.red,'center',4);c.save();c.shadowColor=C.echo;c.shadowBlur=22;this.label('GAME OVER',640,315,76,'rgba(167,139,250,.5)','center',8,900);c.shadowBlur=8;this.label('GAME OVER',640,315,76,C.text,'center',8,900);c.restore();
+  const stats=[['FINAL SCORE',game.score.toLocaleString(),30],['WAVE REACHED',game.director.wave,30],['BEST COMBO',`${game.bestCombo} CHAIN`,24],['PERSONAL BEST',game.best.toLocaleString(),30]];stats.forEach(([label,value,size],i)=>{const x=276+i*186;this.panel(x,360,170,96);this.label(label,x+85,386,9.5,C.muted,'center',2);this.num(value,x+85,431,size);});
+  if(game.newBest){this.glowAt(640,500,260,C.gold,.15);this.round(555,485,170,30,15);c.strokeStyle=C.gold;c.lineWidth=1;c.stroke();this.label('★ NEW BEST',640,505,14,C.gold,'center',2,800);}
+  this.round(470,548,340,44,22);c.strokeStyle=C.muted;c.lineWidth=1;c.stroke();this.label('CLICK OR PRESS R TO RESTART',640,576,14,C.text,'center',2);
  }
 }

diff --git a/game/src/particles.js b/game/src/particles.js
@@ -10,11 +10,14 @@ export class ParticleSystem {
  score(x,y,value) { this.add(x,y,PALETTE.white,'text',EFFECTS.textLife,18,0,-40,`+${value}`); }
  update(dt) { for(const p of this.items){p.life-=dt;p.x+=p.vx*dt;p.y+=p.vy*dt;} this.items=this.items.filter(p=>p.life>0); }
  draw(ctx) {
+  // Draw-only cache: particle simulation and random consumption stay untouched.
+  this.glows??=new Map();
+  const glow=color=>{if(!this.glows.has(color)){const a=document.createElement('canvas');a.width=a.height=128;const c=a.getContext('2d'),g=c.createRadialGradient(64,64,0,64,64,64);g.addColorStop(0,color);g.addColorStop(1,'transparent');c.fillStyle=g;c.fillRect(0,0,128,128);this.glows.set(color,a);}return this.glows.get(color);};
   ctx.save();ctx.globalCompositeOperation='lighter';
-  for(const p of this.items){const t=p.life/p.maxLife;ctx.globalAlpha=t;ctx.strokeStyle=ctx.fillStyle=p.color;ctx.lineWidth=2;
-   if(p.kind==='text'){ctx.font=`700 ${p.size}px system-ui`;ctx.textAlign='center';ctx.fillText(p.text,p.x,p.y);}
+  for(const p of this.items){const t=p.life/p.maxLife;ctx.globalAlpha=p.kind==='glow'?t**1.5:p.kind==='ring'?t**1.3:p.kind==='text'?Math.min(1,t*1.6):t;ctx.strokeStyle=ctx.fillStyle=p.color;ctx.lineWidth=2;
+   if(p.kind==='text'){ctx.font=`700 ${p.size}px "Avenir Next","Segoe UI",system-ui,sans-serif`;ctx.textAlign='center';ctx.fillText(p.text,p.x,p.y);}
    else if(p.kind==='ring'){ctx.beginPath();ctx.arc(p.x,p.y,p.size*(1-t)+4,0,Math.PI*2);ctx.stroke();}
-   else if(p.kind==='glow'){const g=ctx.createRadialGradient(p.x,p.y,0,p.x,p.y,p.size);g.addColorStop(0,p.color);g.addColorStop(1,'transparent');ctx.fillStyle=g;ctx.fillRect(p.x-p.size,p.y-p.size,p.size*2,p.size*2);}
+   else if(p.kind==='glow'){ctx.drawImage(glow(p.color),p.x-p.size,p.y-p.size,p.size*2,p.size*2);}
    else {ctx.save();ctx.translate(p.x,p.y);ctx.rotate(Math.atan2(p.vy,p.vx));ctx.fillRect(-p.size,-p.size/2,p.size*(p.kind==='shard'?3:2),p.size);ctx.restore();}
   }ctx.restore();
  }

diff --git a/game/src/config.js b/game/src/config.js
@@ -1,6 +1,6 @@
 export const WIDTH = 1280, HEIGHT = 800;
 export const ARENA = { left: 42, right: 1238, top: 112, bottom: 752 };
-export const PALETTE = { floor:'#06040f', grid:'#171329', cyan:'#22d3ee', white:'#a5f3fc', echo:'#a78bfa', magenta:'#f471b5', orange:'#fb923c', red:'#f87171', text:'#eeeafa', muted:'#8f89aa' };
+export const PALETTE = { floor:'#06040f', grid:'#171329', cyan:'#22d3ee', white:'#a5f3fc', echo:'#a78bfa', magenta:'#f471b5', orange:'#fb923c', gold:'#fbbf24', red:'#f87171', text:'#eeeafa', muted:'#8f89aa' };
 export const PLAYER = { radius:14, hp:3, acceleration:2400, damping:11, speed:330, fireInterval:1/4.5, invincibility:1.2, recoil:48, muzzle:24 };
 export const BULLET = { speed:620, echoSpeed:430, burstSpeed:520, radius:4, hostileRadius:5, poolSize:512, trail:24 };
 export const DETONATE = { armTime:0.4, base:6, perReplay:2 };
